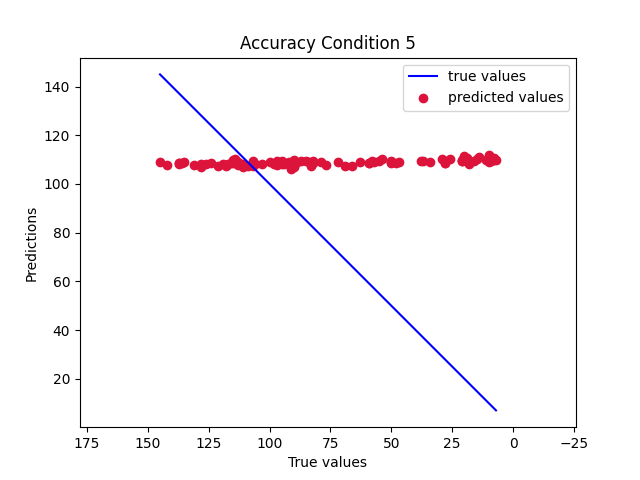
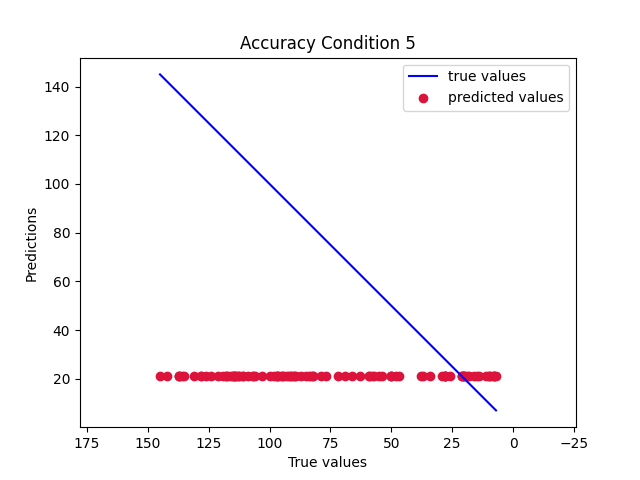
Created the maml for RUL predictions

Changed region(s): [[0.25, 0.75, 0.7812, 0.8125], [0.2188, 0.3125, 0.7812, 0.375]]

diff --git a/RemainingUsefulLifeProject/Baseline/Models/MAML/maml.py b/RemainingUsefulLifeProject/Baseline/Models/MAML/maml.py
@@ -10,7 +10,7 @@ def to_tensor_slices(x, y):
     return tf.data.Dataset.from_tensor_slices((x, y))
 
 
-def train_maml(model, epochs, dataset_list, batch_size=100):
+def train_maml(model, epochs, dataset_list, batch_size=100, lr_inner=0.01, lr_outer=0.03):
     optimizer = keras.optimizers.Adam()
     loss_fn = keras.losses.MeanSquaredError()
     # STEP 2
@@ -29,7 +29,19 @@ def train_maml(model, epochs, dataset_list, batch_size=100):
                         # STEP 5
                         with tf.GradientTape() as train_tape:
                             train_loss, _ = model.compute_loss(x, y, loss_fn)
+                        # STEP 6
                         gradients = train_tape.gradient(train_loss, model.trainable_variables)
                         k = 0
-                        model_copy = copy_mode(model, x)
+                        model_copy = model.copy_model(x)
+                        for j in range(len(model_copy.layers)):
+                            model_copy.layers[j].kernel = tf.subtract(model.layers[j].kernel,
+                                                                      tf.multiply(lr_inner, gradients[k]))
+                            model_copy.layers[j].bias = tf.subtract(model.layers[j].bias,
+                                                                    tf.multiply(lr_inner, gradients[k+1]))
+                            k += 2
+                        # STEP 7
+                        test_loss, logits = model_copy.compute_loss(x, y, loss_fn)
+                    # STEP 8
+                    gradients = test_tape.gradient(test_loss, model.trainable_variables)
+                    optimizer.apply_gradients(zip(gradients, model.trainable_variables))
                     progressbar.update()

diff --git a/MAML Test/mamlmodel.py b/MAML Test/mamlmodel.py
@@ -27,7 +27,7 @@ def train_maml(model, epochs, dataset, lr_inner=0.01, batch_size=1, log_steps=10
         # STEP 3 and 4
         for i, t in enumerate(random.sample(dataset, len(dataset))):
             x, y = np_to_tensor(t.batch())
-            model.forward(x) # run forward pass to initialize weights
+            model.forward(x)  # run forward pass to initialize weights
             with tf.GradientTape() as test_tape:
                 # STEP 5
                 with tf.GradientTape() as train_tape:
@@ -39,7 +39,8 @@ def train_maml(model, epochs, dataset, lr_inner=0.01, batch_size=1, log_steps=10
                 for j in range(len(model_copy.layers)):
                     model_copy.layers[j].kernel = tf.subtract(model.layers[j].kernel,
                                                               tf.multiply(lr_inner, gradients[k]))
-                    model_copy.layers[j].bias = tf.subtract(model.layers[j].bias, tf.multiply(lr_inner, gradients[k+1]))
+                    model_copy.layers[j].bias = tf.subtract(model.layers[j].bias,
+                                                            tf.multiply(lr_inner, gradients[k + 1]))
                     k += 2
                 # STEP 7
                 test_loss, logits = model_copy.compute_loss(x, y)

diff --git a/RemainingUsefulLifeProject/Baseline/Scripts/FNN_Standard/Basic.py b/RemainingUsefulLifeProject/Baseline/Scripts/FNN_Standard/Basic.py
@@ -1,8 +1,6 @@
 from RemainingUsefulLifeProject.Baseline.Models.FNNs.fnn_standard import FFNModel
 from RemainingUsefulLifeProject.Data.dataobject import CustomDataObject
 
-from tensorflow.python.framework.ops import disable_eager_execution
-
 from RemainingUsefulLifeProject.Data.plotter import plot_predicted_v_true, plot_difference
 from RemainingUsefulLifeProject.Data.scoring_methods import print_scores
 

diff --git a/MAML Test/testing_script.py b/MAML Test/testing_script.py
@@ -1,6 +1,3 @@
-import matplotlib.pyplot as plt
-import tensorflow as tf
-from sinusoidgenerator import SinusoidGenerator, plot
 from mamlmodel import train_maml
 from transfermodel import *
 from sinemodel import SineModel

diff --git a/RemainingUsefulLifeProject/Baseline/Scripts/MAML/Standard.py b/RemainingUsefulLifeProject/Baseline/Scripts/MAML/Standard.py
@@ -35,4 +35,5 @@ if len(input_sizes) != 1:
 
 input_size = next(iter(input_sizes))
 ffnn = FFNModel(input_size)
+train_maml(ffnn, 1, train)
 
